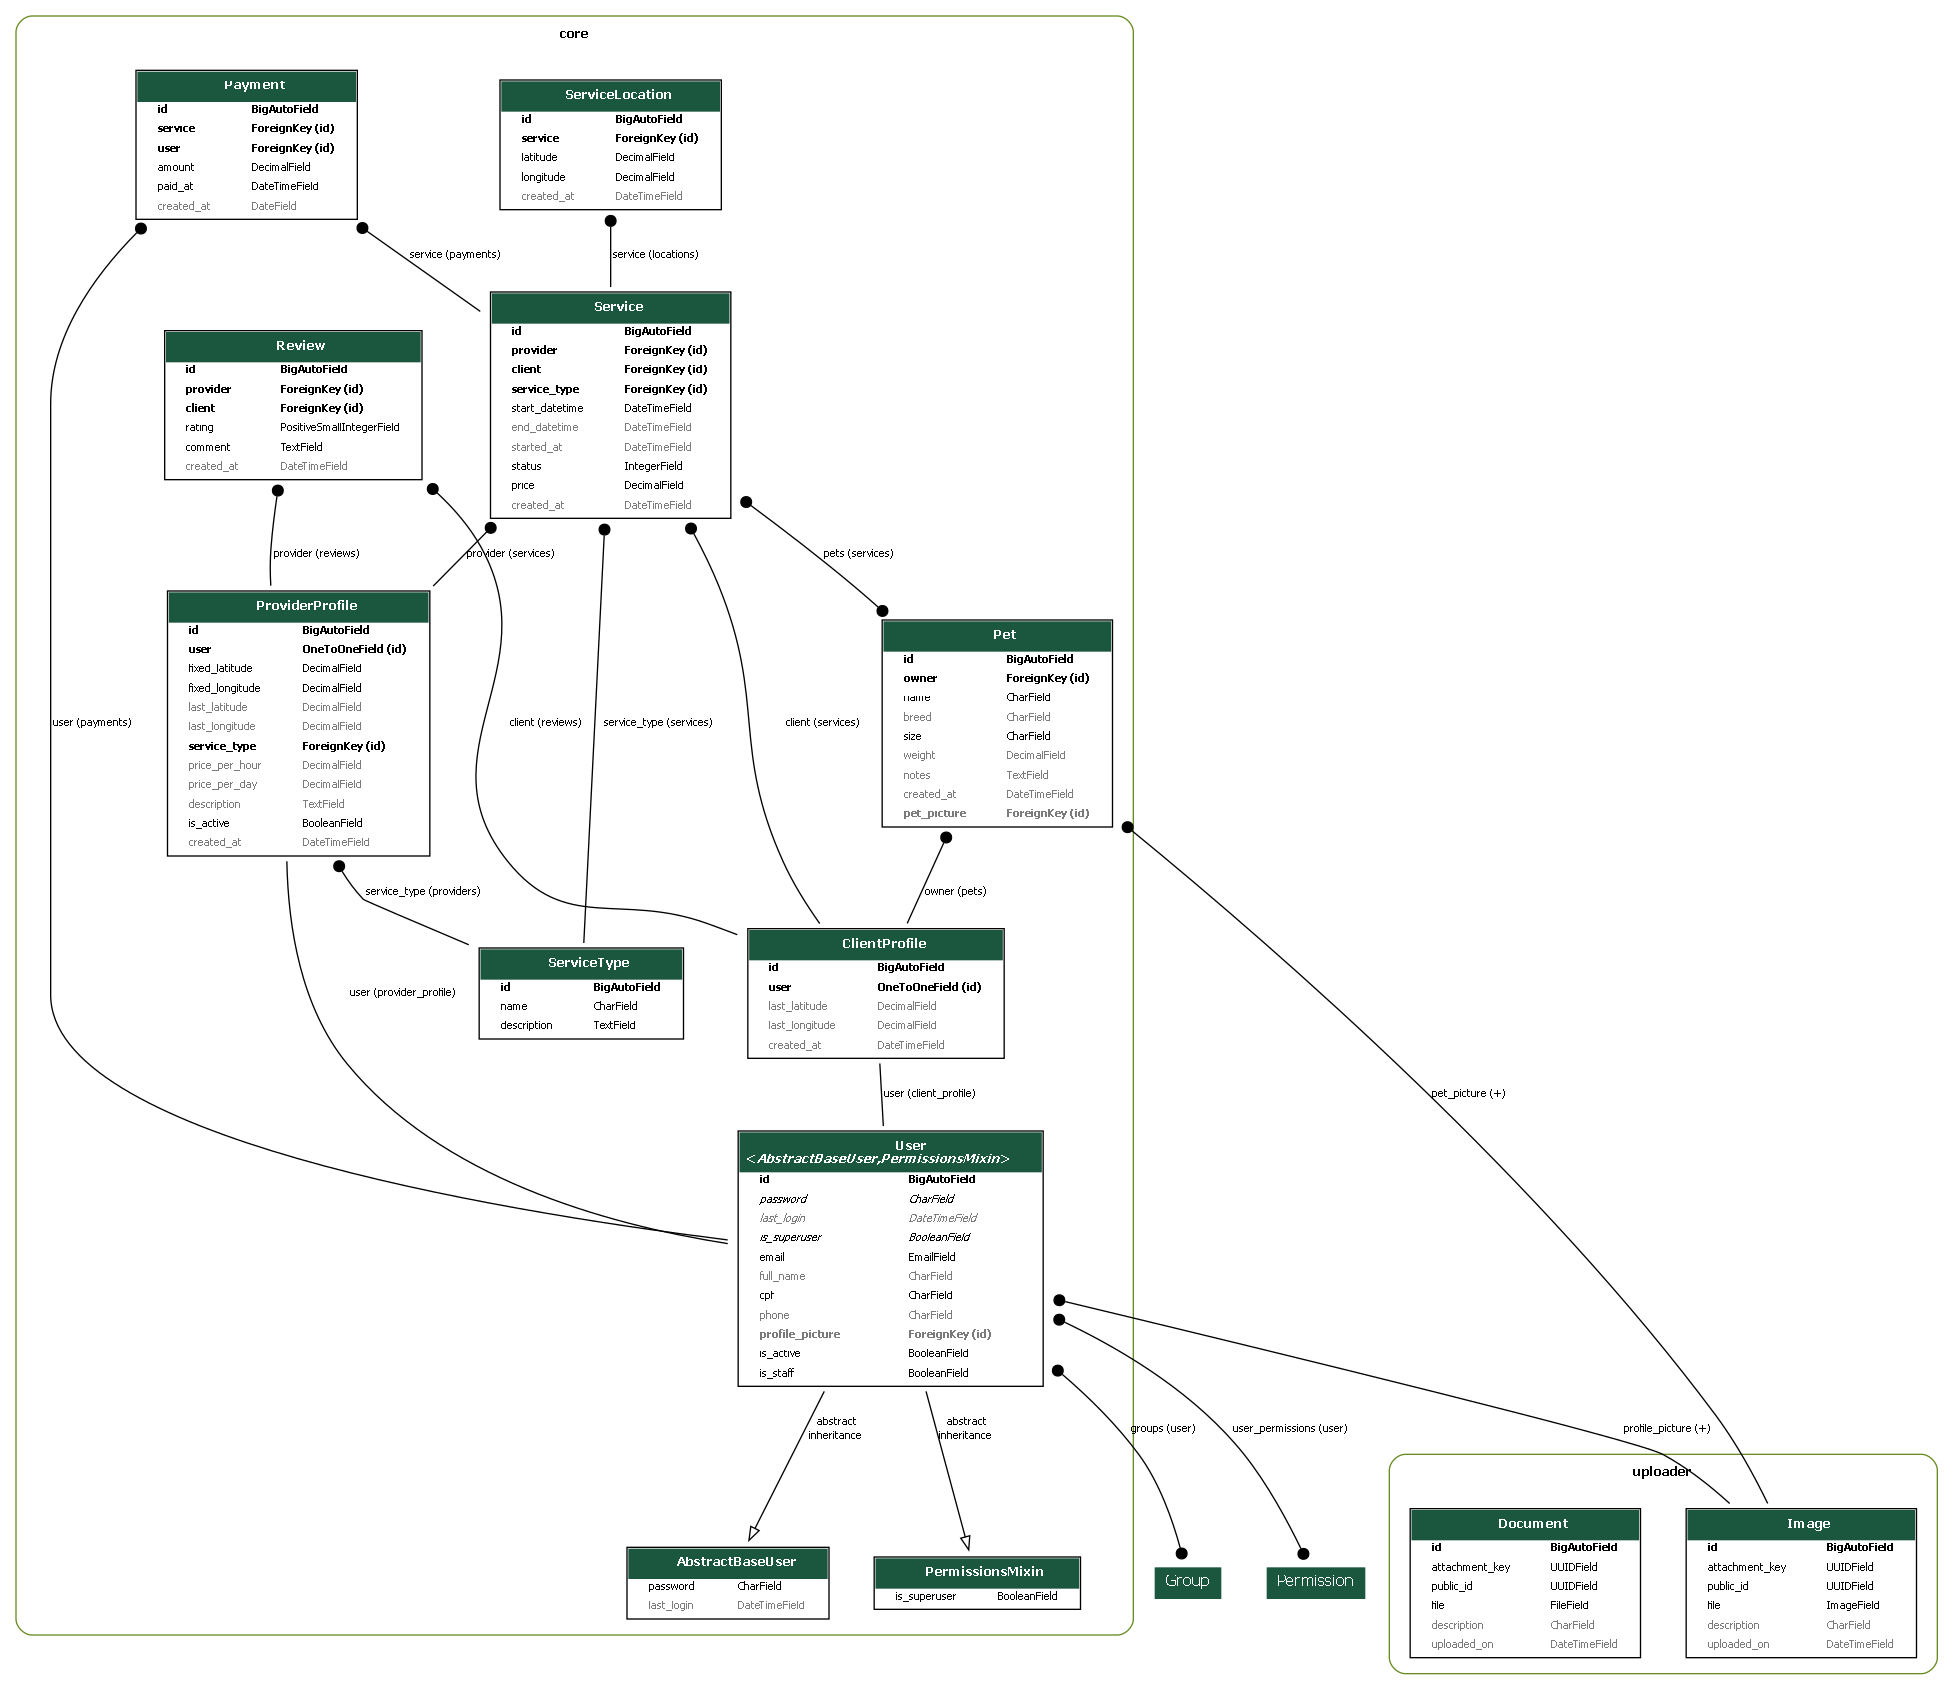
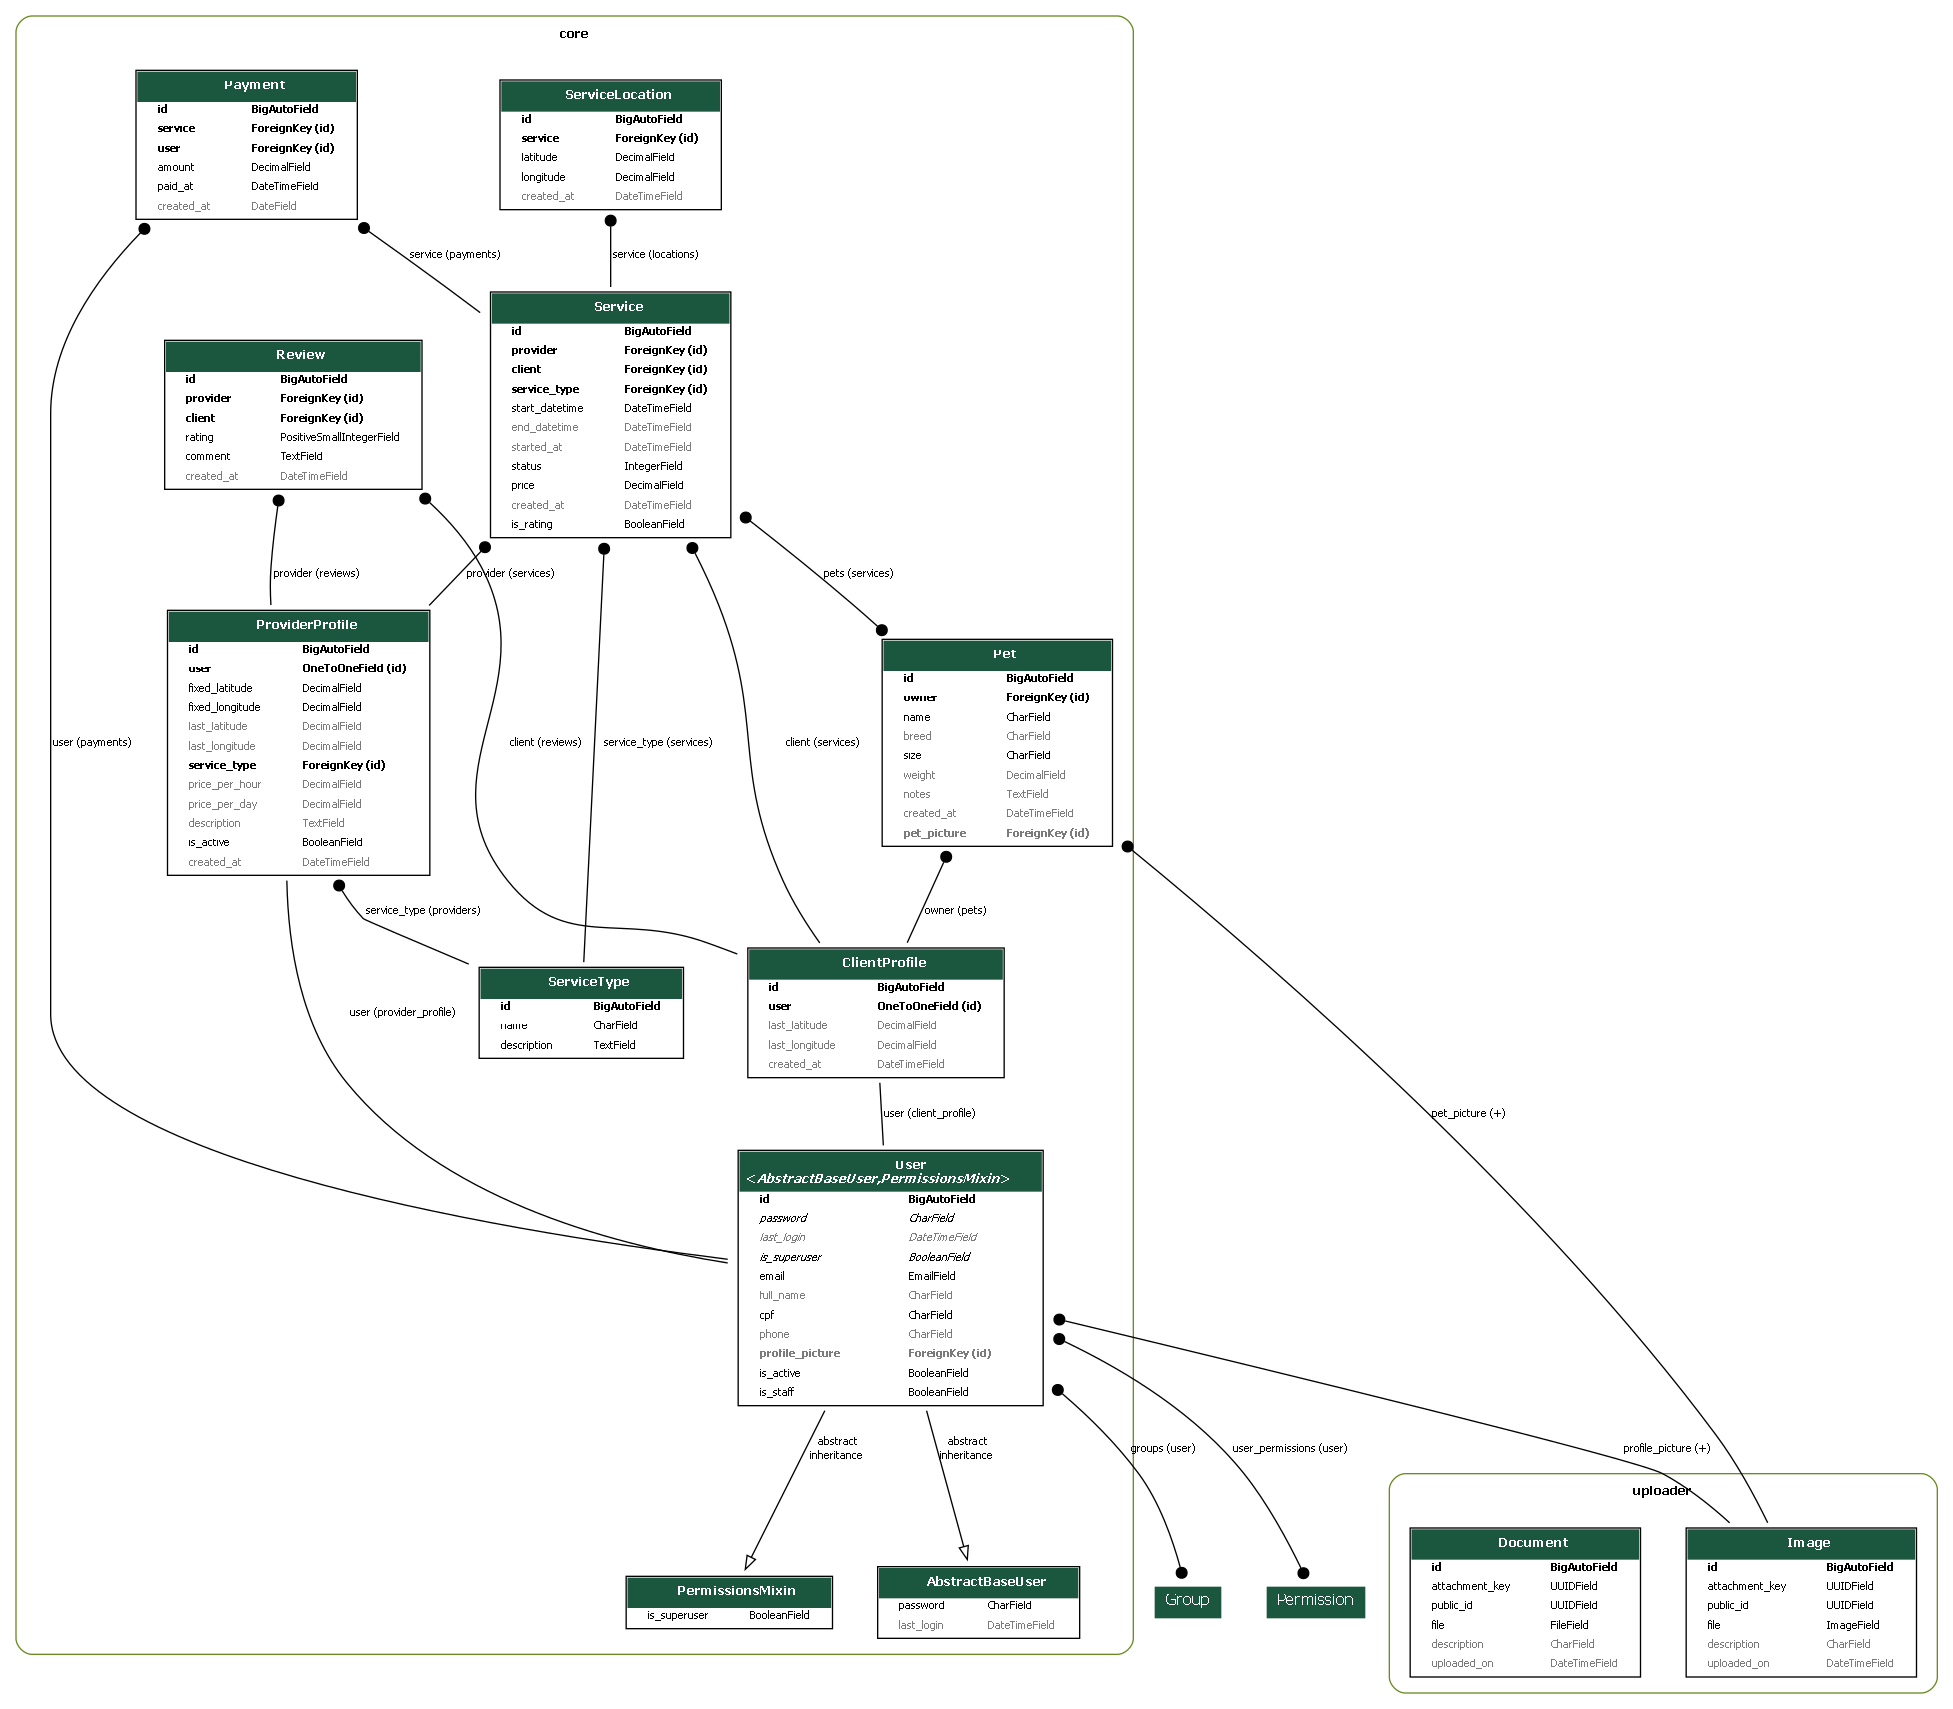
FIX: Change Service model and create api action for rating this #30

diff --git a/core/views/service.py b/core/views/service.py
@@ -26,9 +26,7 @@ class ServiceViewSet(ModelViewSet):
         if user.is_superuser:
             return Service.objects.all()
 
-        return Service.objects.filter(
-            Q(client__user=user) | Q(provider__user=user)
-        ).distinct()
+        return Service.objects.filter(Q(client__user=user) | Q(provider__user=user)).distinct()
 
     def get_serializer_class(self):
         if self.action in {'create', 'update', 'partial_update'}:
@@ -38,128 +36,130 @@ class ServiceViewSet(ModelViewSet):
     filter_backends = [DjangoFilterBackend]
     filterset_fields = ['status']
 
-    @action(detail=True, methods=["post"])
+    @action(detail=True, methods=['post'])
+    def rate(self, request, pk=None):
+        service = self.get_object()
+
+        if service.client.user != request.user:
+            return Response(
+                {'detail': 'Apenas o cliente do serviço pode fazer avalições'}, status=status.HTTP_403_FORBIDDEN
+            )
+
+        if service.is_rating:
+            return Response({'detail': 'Esse serviço já foi avaliado'}, status=status.HTTP_400_BAD_REQUEST)
+
+        with transaction.atomic():
+            service.is_rating = True
+            service.save(update_fields=['is_rating'])
+
+        return Response({'is_rating': True}, status=status.HTTP_200_OK)
+
+    @action(detail=True, methods=['post'])
     def confirm(self, request, pk=None):
         service = self.get_object()
 
         if service.provider.user != request.user:
             return Response(
-                {"detail": "Apenas o prestador pode confirmar o passeio."},
+                {'detail': 'Apenas o prestador pode confirmar o passeio.'},
                 status=status.HTTP_403_FORBIDDEN,
             )
 
         if Service.Status(int(service.status)) != Service.Status.IN_REVIEW:
             return Response(
-                {"detail": f"Não é possível confirmar: status atual é {service.get_status_display()}."},
+                {'detail': f'Não é possível confirmar: status atual é {service.get_status_display()}.'},
                 status=status.HTTP_400_BAD_REQUEST,
             )
 
         with transaction.atomic():
             service.status = Service.Status.CONFIRMED
-            service.save(update_fields=["status"])
+            service.save(update_fields=['status'])
 
-            transaction.on_commit(
-                lambda: publish_service_event(
-                    service.id, "walk_confirmed", Service.Status.CONFIRMED
-                )
-            )
+            transaction.on_commit(lambda: publish_service_event(service.id, 'walk_confirmed', Service.Status.CONFIRMED))
 
         return Response(ServiceListSerializer(service).data)
 
-    @action(detail=True, methods=["post"])
+    @action(detail=True, methods=['post'])
     def reject(self, request, pk=None):
         service = self.get_object()
 
         if service.provider.user != request.user:
             return Response(
-                {"detail": "Apenas o prestador pode recusar o passeio."},
+                {'detail': 'Apenas o prestador pode recusar o passeio.'},
                 status=status.HTTP_403_FORBIDDEN,
             )
 
         if Service.Status(int(service.status)) != Service.Status.IN_REVIEW:
             return Response(
-                {"detail": f"Não é possível recusar: status atual é {service.get_status_display()}."},
+                {'detail': f'Não é possível recusar: status atual é {service.get_status_display()}.'},
                 status=status.HTTP_400_BAD_REQUEST,
             )
 
         with transaction.atomic():
             service.status = Service.Status.REJECTED
-            service.save(update_fields=["status"])
+            service.save(update_fields=['status'])
 
-            transaction.on_commit(
-                lambda: publish_service_event(
-                    service.id, "walk_rejected", Service.Status.REJECTED
-                )
-            )
+            transaction.on_commit(lambda: publish_service_event(service.id, 'walk_rejected', Service.Status.REJECTED))
 
         return Response(ServiceListSerializer(service).data)
 
-    @action(detail=True, methods=["post"])
+    @action(detail=True, methods=['post'])
     def start(self, request, pk=None):
         service = self.get_object()
 
         if service.provider.user != request.user:
             return Response(
-                {"detail": "Apenas o prestador pode iniciar o passeio."},
+                {'detail': 'Apenas o prestador pode iniciar o passeio.'},
                 status=status.HTTP_403_FORBIDDEN,
             )
 
         if Service.Status(int(service.status)) != Service.Status.CONFIRMED:
             return Response(
-                {"detail": f"Não é possível iniciar: status atual é {service.get_status_display()}."},
+                {'detail': f'Não é possível iniciar: status atual é {service.get_status_display()}.'},
                 status=status.HTTP_400_BAD_REQUEST,
             )
 
         with transaction.atomic():
             service.status = Service.Status.IN_PROGRESS
             service.started_at = timezone.now()
-            service.save(update_fields=["status", "started_at"])
+            service.save(update_fields=['status', 'started_at'])
 
-            transaction.on_commit(
-                lambda: publish_service_event(
-                    service.id, "walk_started", Service.Status.IN_PROGRESS
-                )
-            )
+            transaction.on_commit(lambda: publish_service_event(service.id, 'walk_started', Service.Status.IN_PROGRESS))
 
         return Response(ServiceListSerializer(service).data)
 
-    @action(detail=True, methods=["post"])
+    @action(detail=True, methods=['post'])
     def complete(self, request, pk=None):
         service = self.get_object()
 
         if service.provider.user != request.user:
             return Response(
-                {"detail": "Apenas o prestador pode concluir o passeio."},
+                {'detail': 'Apenas o prestador pode concluir o passeio.'},
                 status=status.HTTP_403_FORBIDDEN,
             )
 
         if Service.Status(int(service.status)) != Service.Status.IN_PROGRESS:
             return Response(
-                {"detail": "Apenas passeios em andamento podem ser concluídos."},
+                {'detail': 'Apenas passeios em andamento podem ser concluídos.'},
                 status=status.HTTP_400_BAD_REQUEST,
             )
 
         with transaction.atomic():
             service.status = Service.Status.COMPLETED
             service.end_datetime = timezone.now()
-            service.save(update_fields=["status", "end_datetime"])
+            service.save(update_fields=['status', 'end_datetime'])
 
-            transaction.on_commit(
-                lambda: publish_service_event(
-                    service.id, "walk_completed", Service.Status.COMPLETED
-                )
-            )
+            transaction.on_commit(lambda: publish_service_event(service.id, 'walk_completed', Service.Status.COMPLETED))
 
         return Response(ServiceListSerializer(service).data)
 
-    @action(detail=True, methods=["post"])
+    @action(detail=True, methods=['post'])
     def cancel(self, request, pk=None):
         service = self.get_object()
 
         user = request.user
         if service.provider.user != user and service.client.user != user:  # noqa: PLR1714
             return Response(
-                {"detail": "Apenas o prestador ou o cliente podem cancelar."},
+                {'detail': 'Apenas o prestador ou o cliente podem cancelar.'},
                 status=status.HTTP_403_FORBIDDEN,
             )
 
@@ -171,38 +171,30 @@ class ServiceViewSet(ModelViewSet):
 
         if Service.Status(int(service.status)) not in cancellable:
             return Response(
-                {"detail": f"Não é possível cancelar: status atual é {service.get_status_display()}."},
+                {'detail': f'Não é possível cancelar: status atual é {service.get_status_display()}.'},
                 status=status.HTTP_400_BAD_REQUEST,
             )
 
         with transaction.atomic():
             service.status = Service.Status.CANCELLED
-            service.save(update_fields=["status"])
+            service.save(update_fields=['status'])
 
-            transaction.on_commit(
-                lambda: publish_service_event(
-                    service.id, "walk_cancelled", Service.Status.CANCELLED
-                )
-            )
+            transaction.on_commit(lambda: publish_service_event(service.id, 'walk_cancelled', Service.Status.CANCELLED))
 
         return Response(ServiceListSerializer(service).data)
 
-    @action(detail=True, methods=["get"])
+    @action(detail=True, methods=['get'])
     def route(self, request, pk=None):
         service = self.get_object()
 
         user = request.user
         if service.provider.user != user and service.client.user != user:  # noqa: PLR1714
             return Response(
-                {"detail": "Apenas os envolvidos no passeio podem ver a rota."},
+                {'detail': 'Apenas os envolvidos no passeio podem ver a rota.'},
                 status=status.HTTP_403_FORBIDDEN,
             )
 
-        locations = list(
-            service.locations.order_by("created_at").values_list(
-                "latitude", "longitude", "created_at"
-            )
-        )
+        locations = list(service.locations.order_by('created_at').values_list('latitude', 'longitude', 'created_at'))
 
         total_distance = 0.0
         for index in range(1, len(locations)):
@@ -217,19 +209,17 @@ class ServiceViewSet(ModelViewSet):
 
         points = [
             {
-                "latitude": float(latitude),
-                "longitude": float(longitude),
-                "created_at": created_at,
+                'latitude': float(latitude),
+                'longitude': float(longitude),
+                'created_at': created_at,
             }
             for latitude, longitude, created_at in locations
         ]
 
-        return Response(
-            {
-                "points": points,
-                "total_distance": round(total_distance, 2),
-            }
-        )
+        return Response({
+            'points': points,
+            'total_distance': round(total_distance, 2),
+        })
 
 
 class ServiceTypeViewSet(ModelViewSet):

diff --git a/core/models/service.py b/core/models/service.py
@@ -31,6 +31,7 @@ class Service(models.Model):
     status = models.IntegerField(choices=Status.choices, null=False, default=Status.IN_REVIEW)
     price = models.DecimalField(max_digits=7, decimal_places=2)
     created_at = models.DateTimeField(auto_now_add=True)
+    is_rating = models.BooleanField(default=False)
 
     def __str__(self):
         return f'({self.id}) provedor: {self.provider.user.email}, cliente: {self.client.user.email}'

diff --git a/core/migrations/0027_service_is_rating.py b/core/migrations/0027_service_is_rating.py
@@ -1,0 +1,18 @@
+# Generated by Django 5.2.13 on 2026-10-06 21:09
+
+from django.db import migrations, models
+
+
+class Migration(migrations.Migration):
+
+    dependencies = [
+        ('core', '0026_service_started_at'),
+    ]
+
+    operations = [
+        migrations.AddField(
+            model_name='service',
+            name='is_rating',
+            field=models.BooleanField(default=False),
+        ),
+    ]

diff --git a/core/serializers/service.py b/core/serializers/service.py
@@ -57,6 +57,7 @@ class ServiceListSerializer(serializers.ModelSerializer):
             'started_at',
             'duration',
             'distance',
+            'is_rating',
             'created_at'
         )
 
